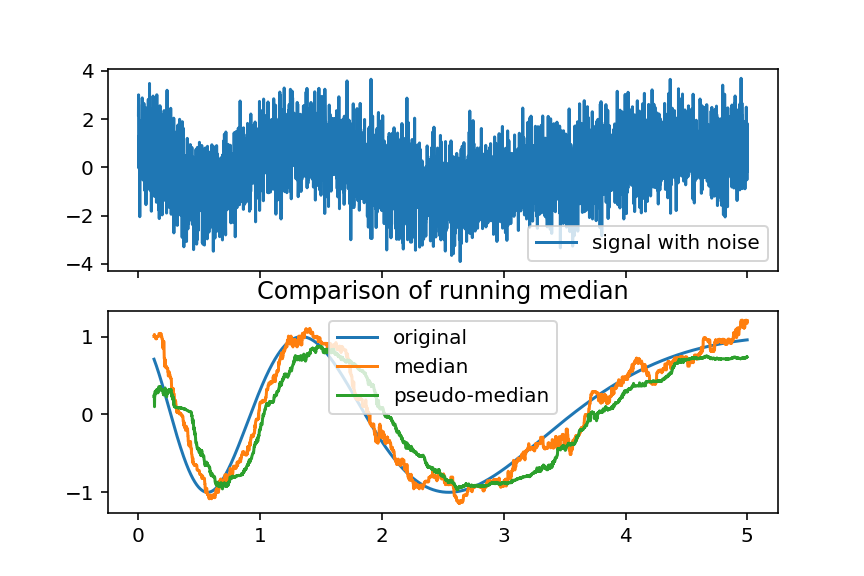
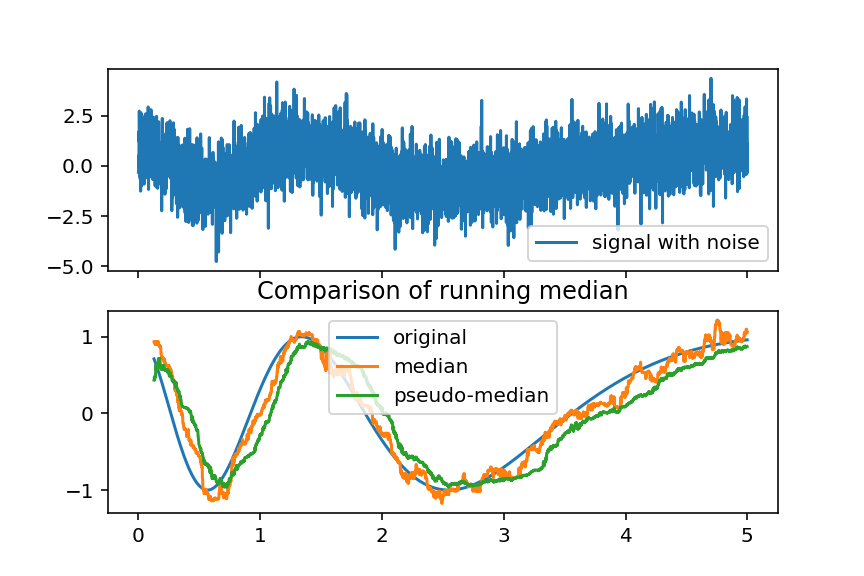
cleaned up graphs

diff --git a/real_data.py b/real_data.py
@@ -11,16 +11,9 @@ import numpy as np
 from scipy import fft, signal as sig
 import matplotlib.pyplot as plt
 
-a = pd.read_csv('data/slow_sample.csv')
-b = pd.to_numeric(a['state'], errors='coerce').dropna()
-n = b.shape[0]
-
-#y = np.abs(fft.fft(b)[:n//2])
-#plt.loglog(y)
-
 # Brute force solution
 def classic_median(x, mlen=128):
-    return [np.median(b[max(i-mlen, 0):i+1]) for i in range(n)]
+    return [np.median(x[max(i-mlen, 0):i+1]) for i in range(n)]
 
 def pseudo_median(x, mlen=128):
     arr = np.linspace(0,2,mlen)
@@ -41,13 +34,35 @@ def pseudo_median(x, mlen=128):
 
 # %%
 
+a = pd.read_csv('data/fast_sample.csv')
+b = pd.to_numeric(a['state'], errors='coerce').dropna()
+n = b.shape[0]
+
 mlen = 128
 c = classic_median(b, mlen)
 d = pseudo_median(b, mlen)
 
+plt.plot(b, 'k,', label='noisy', markersize=1)
+plt.plot(c, label='median')
+plt.plot(d, label='pseudo-median')
+plt.xlim(mlen, n)
+plt.ylim(0.2, 0.7)
+plt.legend()
+plt.savefig('images/fast_sample.png')
+
 # %%
 
-plt.plot(b[mlen:], 'k.', label='noisy', markersize=1)
-plt.plot(c[mlen:], label='median')
-plt.plot(d[mlen:], label='pseudo-median')
+a = pd.read_csv('data/slow_sample.csv')
+b = pd.to_numeric(a['state'], errors='coerce').dropna()
+n = b.shape[0]
+
+mlen = 128
+c = classic_median(b, mlen)
+d = pseudo_median(b, mlen)
+
+plt.plot(b, 'k.', label='noisy', markersize=1)
+plt.plot(c, label='median')
+plt.plot(d, label='pseudo-median')
+plt.xlim(mlen, n)
 plt.legend()
+plt.savefig('images/slow_sample.png')

diff --git a/experiment.py b/experiment.py
@@ -47,7 +47,7 @@ def analyze(t,a,b,c):
 # %%
 # Brute force solution
 def classic_median(x, mlen=128):
-    return [np.median(b[max(i-mlen,0):i+1]) for i in range(n)]
+    return [np.median(x[max(i-mlen,0):i+1]) for i in range(n)]
 
 # %%
 
@@ -87,6 +87,6 @@ def compare_noise(amp):
     ax1.legend()
     [ax2.plot(t[mlen:],x[mlen:]) for x in [a,c,d]]
     ax2.legend(['original', 'median', 'pseudo-median'])
-    plt.savefig(f'noise_{amp:0.1f}.png')
+    plt.savefig(f'images/noise_{amp:0.1f}.png')
 
 [compare_noise(x) for x in [1,0.5,0.1]]
